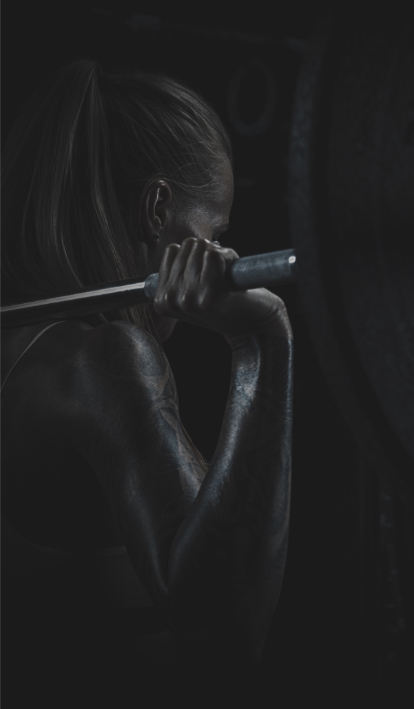
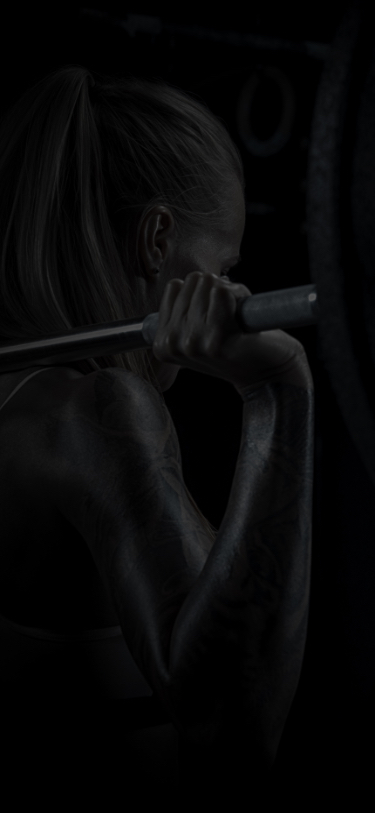
update sp top img, hamburger menu, hamburger itself

diff --git a/components/HamburgerMenu.vue b/components/HamburgerMenu.vue
@@ -12,11 +12,11 @@
               <li  class="nav-link"><nuxt-link @click.native="hamburger()" to="/posts/nutrition">NUTRITION <span class="jp">栄養について学ぶ</span></nuxt-link></li>
               <li  class="nav-link"><nuxt-link @click.native="hamburger()" to="/posts/recipes">RECIPES <span class="jp">ヴィーガン料理をつくる</span></nuxt-link></li>
               <li  class="nav-link"><nuxt-link @click.native="hamburger()" to="/posts/restaurants">RESTAURANTS <span class="jp">外でヴィーガン料理を食べる</span></nuxt-link></li>
-              <li  class="nav-link"><nuxt-link @click.native="hamburger()" to="/posts/faq">FAQ <span class="jp">よくある疑問の答えを知る</span></nuxt-link></li>
-              <li  class="nav-link"><nuxt-link @click.native="hamburger()" to="/posts/">ARCHIVE <span class="jp">記事一覧</span></nuxt-link></li>
-              <li  class="nav-link"><nuxt-link class="pages" @click.native="hamburger()" to="/contact">CONTACT <span class="jp">OXに声をかける</span></nuxt-link></li>
-              <li class="nav-link"><nuxt-link class="pages" @click.native="hamburger()" to="/about-us">ABOUT US <span class="jp">OXについて</span></nuxt-link></li>
-              <li class="nav-link"><nuxt-link class="pages" @click.native="hamburger()" to="/privacy-policy">PRIVACY POLICY <span class="jp">プライバシーポリシー</span></nuxt-link></li>
+              <li  class="nav-link bottom-line"><nuxt-link @click.native="hamburger()" to="/posts/faq">FAQ <span class="jp">よくある疑問の答えを知る</span></nuxt-link></li>
+              <li  class="nav-link bottom-line"><nuxt-link @click.native="hamburger()" to="/posts/">ARCHIVE <span class="jp">記事一覧</span></nuxt-link></li>
+              <li  class="nav-link bottom-line"><nuxt-link class="pages" @click.native="hamburger()" to="/contact">CONTACT <span class="jp">OXに声をかける</span></nuxt-link></li>
+              <li class="nav-link bottom-line"><nuxt-link class="pages" @click.native="hamburger()" to="/about-us">ABOUT US <span class="jp">OXについて</span></nuxt-link></li>
+              <li class="nav-link bottom-line"><nuxt-link class="pages" @click.native="hamburger()" to="/privacy-policy">PRIVACY POLICY <span class="jp">プライバシーポリシー</span></nuxt-link></li>
             </ul>
           </nav>
           <div class="sns-links flex">
@@ -70,7 +70,11 @@
       margin-left: responsive-vw(16px);
     }
     .nav-link{
-      margin: get-vh(45px) 0;
+      margin: 2.5vh 0;
+      padding-bottom: 2.5vh;
+      &.bottom-line{
+        border-bottom: 1px solid #212121;
+      }
     }
     &-content{
       height: 100%;
@@ -100,7 +104,7 @@
   }
   .hamburger__line {
     position: absolute;
-    height: 2px;
+    height: 1px;
     right: tab-vw(48px);
     background-color: #fff;
     /*background-color: #707070;*/

diff --git a/pages/index.vue b/pages/index.vue
@@ -407,7 +407,7 @@
     margin-right: 5%;
     color: #fff;
     position: relative;
-    bottom: 10%;
+    bottom: 30%;
     align-items: center;
     hr{
       transform: rotate(90deg);
@@ -446,7 +446,7 @@
     /*margin-left: auto;*/
     @media screen and (max-width: 768px) {
       background-image: url('~assets/img/sptop.jpg');
-      height: get-vh(709px);
+      height: 100vh;
       width: 100%;
       background-attachment: scroll;
     }

diff --git a/assets/styles/mixins.scss b/assets/styles/mixins.scss
@@ -6,6 +6,10 @@
   $vw-context: (900*.01) * 1px;
   @return ($target/$vw-context) * 1vh;
 }
+@function get-spvh($target) {
+  $vw-context: (813*.01) * 1px;
+  @return ($target/$vw-context) * 1vh;
+}
 
 @function responsive-vw($target) {
   $vw-context: (414*.01) * 1px;
